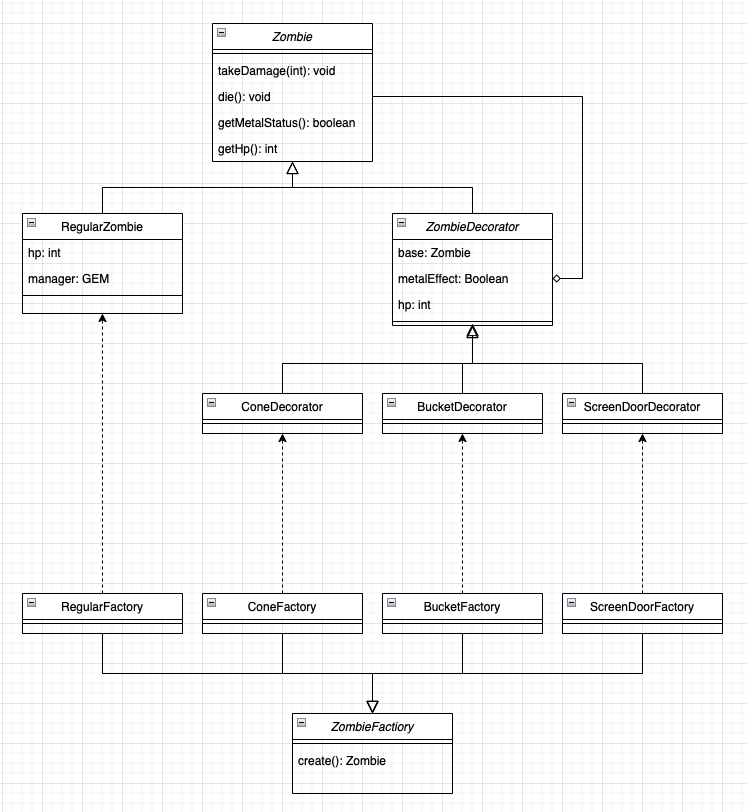
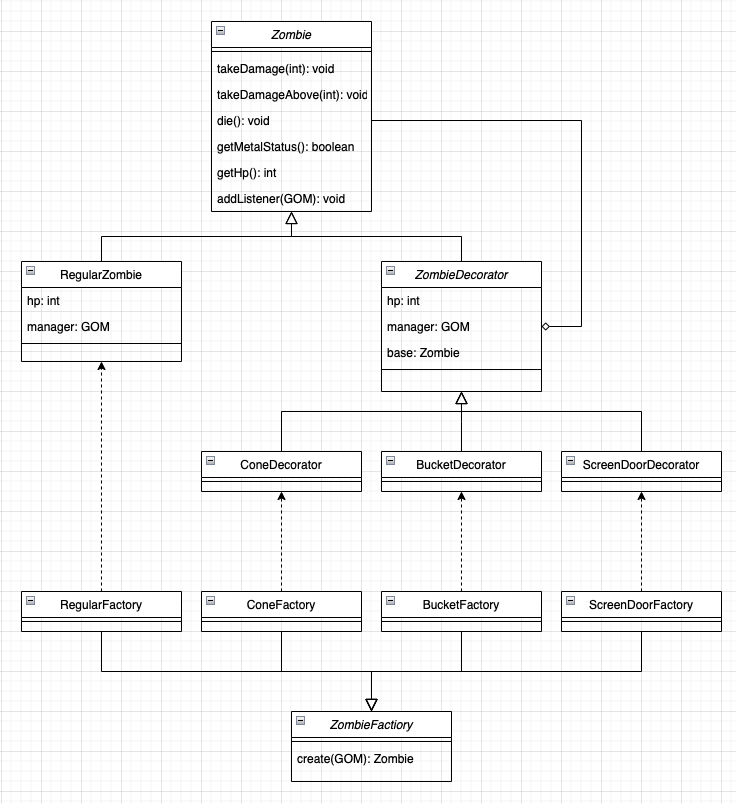
hw6

diff --git a/homework/hw6/src/manager/GameEventManager.java b/homework/hw6/src/manager/GameEventManager.java
@@ -4,18 +4,33 @@ import entity.Zombie;
 
 public class GameEventManager {
     private GameObjectManager gom;
+
     public GameEventManager(GameObjectManager gom) {
         this.gom = gom;
     }
 
+    /**
+     * Deal damage as peashooter
+     * @param zombie
+     * @param damage
+     */
     public void doDamage(Zombie zombie, int damage) {
         zombie.takeDamage(damage);
     }
 
+    /**
+     * Deal damage as watermelon
+     * @param zombie
+     * @param damage
+     */
     public void doDamageAbove(Zombie zombie, int damage) {
         zombie.takeDamageAbove(damage);
     }
 
+    /**
+     * Remove metal parts with magnet-shroom
+     * @param zombie
+     */
     public void applyMagnetForce(Zombie zombie) {
         if (zombie.getMetalStatus()) {
             zombie.die();

diff --git a/homework/hw6/src/entity/Zombie.java b/homework/hw6/src/entity/Zombie.java
@@ -3,10 +3,38 @@ package entity;
 import manager.GameObjectManager;
 
 public interface Zombie {
+    /**
+     * Take peashooter damage
+     * @param damage
+     */
     public void takeDamage(int damage);
+
+    /**
+     * Take watermelon damage
+     * @param damage
+     */
     public void takeDamageAbove(int damage);
+
+    /**
+     * Object dies, update GOM list
+     */
     public void die();
+
+    /**
+     * return total hp of the zombie
+     * @return
+     */
     public int getHp();
+
+    /**
+     * Check if Zombie has metal parts
+     * @return
+     */
     public boolean getMetalStatus();
+
+    /**
+     * GOM subscribe to Zombie
+     * @param gom
+     */
     public void addListener(GameObjectManager gom);
 }

diff --git a/homework/hw6/src/manager/GameObjectManager.java b/homework/hw6/src/manager/GameObjectManager.java
@@ -14,10 +14,19 @@ public class GameObjectManager {
         objectList = new ArrayList<>();
     }
 
+    /**
+     * Add zombie to the roster
+     * @param zombie
+     */
     public void addZombie(Zombie zombie) {
         objectList.add(zombie);
     }
 
+    /**
+     * Update the status of the nearest zombie
+     * Happens on Zombie.die()
+     * @param newZombie
+     */
     public void update(Zombie newZombie) {
         if (newZombie == null) {
             objectList.remove(0);
@@ -26,6 +35,10 @@ public class GameObjectManager {
         }
     }
 
+    /**
+     * return the first zombie
+     * @return Zombie
+     */
     public Zombie getNearest() {
         return objectList.get(0);
     }

diff --git a/homework/hw6/src/factory/ZombieFactory.java b/homework/hw6/src/factory/ZombieFactory.java
@@ -4,5 +4,10 @@ import entity.Zombie;
 import manager.GameObjectManager;
 
 public interface ZombieFactory {
+    /**
+     * Create Zombie and make GOM as listener
+     * @param gom
+     * @return
+     */
     public Zombie create(GameObjectManager gom);
 }

diff --git a/homework/hw6/README.md b/homework/hw6/README.md
@@ -6,3 +6,13 @@ April 2022
 ## 1
 ![class_diagram](./assets/fig1.png)
 
+## 2
+In case IDE doesn't support the code, following are the UNIX commands needed to execute the program.
+```bash
+cd src/
+javac Main.java
+java Main
+```
+Please follow console prompt for correct input. This program cannot handle weird input.
+
+## 3
